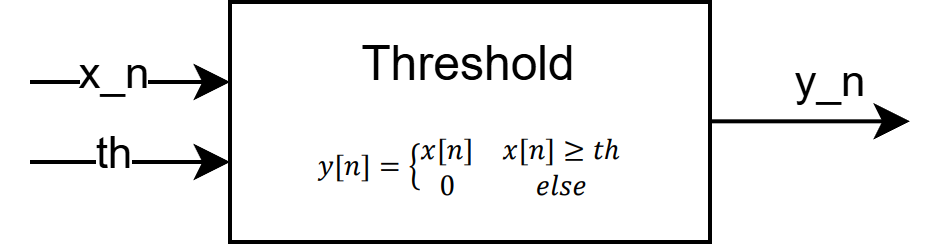
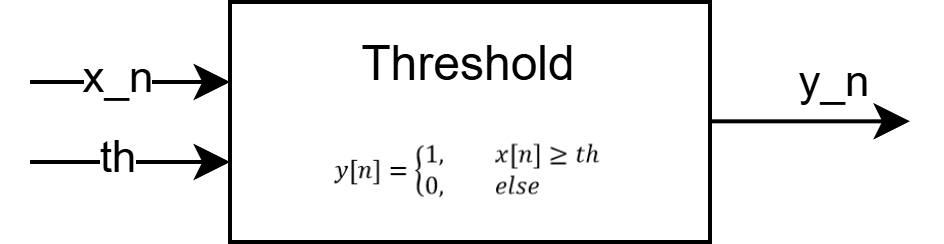
Implementing STFT\ISTFT as polyphase filters
Fixing plots

diff --git a/STFT.m b/STFT.m
@@ -7,26 +7,16 @@ N_samples = length(x);
 N         = round(N_samples/M);
 W         = zeros(N, M);
 
-SHIFT = @(x) buffer(Filter(1, [1 0], x), N_samples);
 for ik = 0:M-1
-    basis_vec = Complex(ik, M);
-    tmp = x;
-    for in = 1:M-1
-        x_decimated = Decimate(M, tmp);
-        curr_prod = Scalar(basis_vec(in), x_decimated);
-        W(:, ik+1) = Add(W(:, ik+1), curr_prod);
-        tmp = SHIFT(tmp');
+    basis_vec = Conj(Complex(ik, M));
+    for jf = 0:M-1
+        x_delayed = Delay(x, jf);
+        xj_delayed = Decimate(M, x_delayed);
+
+        hj_filter = PolyphaseFilter(basis_vec, jf, M);
+        wj = Filter(1, hj_filter, xj_delayed);
+        
+        W(:, ik+1) = Add(W(:, ik+1), wj);
     end
 end
-% % M x N_frames
-% x_windowed = reshape(x, M, []);
-% 
-% % Define discrete frequency domain
-% f = (0:M-1);
-% 
-% % Get fft basis, M_samples x M_frequencies
-% fft_basis = Complex(f, M);
-% 
-% % Compute DFT for each window
-% W = x_windowed.' * fft_basis;
 end

diff --git a/Energy.m b/Energy.m
@@ -1,3 +1,3 @@
 function [energy] = Energy(x_n)
-energy = Prod(x_n, Conj(x_n));
+energy = sqrt(Prod(x_n, Conj(x_n)));
 end

diff --git a/PolyphaseFilter.m b/PolyphaseFilter.m
@@ -1,0 +1,5 @@
+function [h_i] = PolyphaseFilter(h, i, M)
+h_delayed = Delay(h, i);
+h_i = Decimate(M, h_delayed);
+end
+

diff --git a/Threshold.m b/Threshold.m
@@ -3,6 +3,5 @@ arguments
     x 
     th 
 end
-y = x;
-y(y < th) = 0;
+y = x >= th;
 end

diff --git a/Delay.m b/Delay.m
@@ -1,0 +1,4 @@
+function [y_n] = Delay(x_n, delay)
+y_n = x_n(1+delay:end);
+end
+
